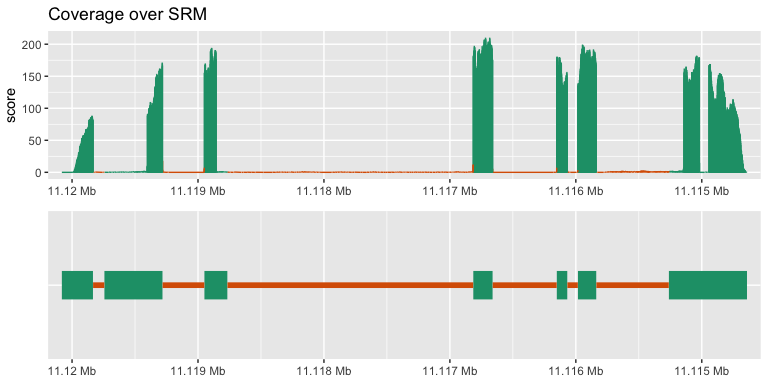
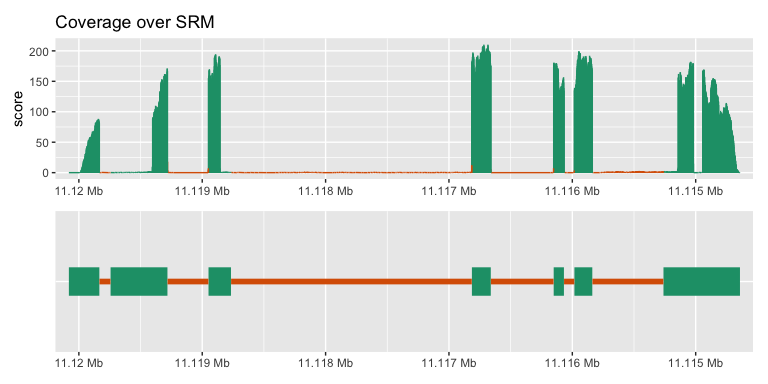
version bump; patchwork is now on CRAN; fix changes caused by regression bug in plyranges.

diff --git a/README.md b/README.md
@@ -46,6 +46,8 @@ gene.
 
 ``` r
 library(superintronic)
+#> Warning: replacing previous import 'IRanges::slice' by 'plyranges::slice' when
+#> loading 'superintronic'
 suppressPackageStartupMessages(library(plyranges))
 
 features <- system.file("extdata", 
@@ -93,32 +95,32 @@ cvg <- compute_coverage_long(design, source = "bam")
 
 cvg 
 #> GRanges object with 98561 ranges and 6 metadata columns:
-#>           seqnames             ranges strand |  sample_id     cell
-#>              <Rle>          <IRanges>  <Rle> |   <factor> <factor>
-#>       [1]        1         1-11053772      * | SRR1039508   N61311
-#>       [2]        1  11053773-11053835      * | SRR1039508   N61311
-#>       [3]        1  11053836-11053839      * | SRR1039508   N61311
-#>       [4]        1  11053840-11053902      * | SRR1039508   N61311
-#>       [5]        1  11053903-11067865      * | SRR1039508   N61311
-#>       ...      ...                ...    ... .        ...      ...
-#>   [98557]        1  11359548-11362328      * | SRR1039521  N061011
-#>   [98558]        1  11362329-11362356      * | SRR1039521  N061011
-#>   [98559]        1  11362357-11362391      * | SRR1039521  N061011
-#>   [98560]        1  11362392-11362419      * | SRR1039521  N061011
-#>   [98561]        1 11362420-249250621      * | SRR1039521  N061011
-#>                dex    albut
-#>           <factor> <factor>
-#>       [1]    untrt    untrt
-#>       [2]    untrt    untrt
-#>       [3]    untrt    untrt
-#>       [4]    untrt    untrt
-#>       [5]    untrt    untrt
-#>       ...      ...      ...
-#>   [98557]      trt    untrt
-#>   [98558]      trt    untrt
-#>   [98559]      trt    untrt
-#>   [98560]      trt    untrt
-#>   [98561]      trt    untrt
+#>           seqnames             ranges strand |  sample_id     cell      dex
+#>              <Rle>          <IRanges>  <Rle> |   <factor> <factor> <factor>
+#>       [1]        1         1-11053772      * | SRR1039508   N61311    untrt
+#>       [2]        1  11053773-11053835      * | SRR1039508   N61311    untrt
+#>       [3]        1  11053836-11053839      * | SRR1039508   N61311    untrt
+#>       [4]        1  11053840-11053902      * | SRR1039508   N61311    untrt
+#>       [5]        1  11053903-11067865      * | SRR1039508   N61311    untrt
+#>       ...      ...                ...    ... .        ...      ...      ...
+#>   [98557]        1  11359548-11362328      * | SRR1039521  N061011      trt
+#>   [98558]        1  11362329-11362356      * | SRR1039521  N061011      trt
+#>   [98559]        1  11362357-11362391      * | SRR1039521  N061011      trt
+#>   [98560]        1  11362392-11362419      * | SRR1039521  N061011      trt
+#>   [98561]        1 11362420-249250621      * | SRR1039521  N061011      trt
+#>              albut
+#>           <factor>
+#>       [1]    untrt
+#>       [2]    untrt
+#>       [3]    untrt
+#>       [4]    untrt
+#>       [5]    untrt
+#>       ...      ...
+#>   [98557]    untrt
+#>   [98558]    untrt
+#>   [98559]    untrt
+#>   [98560]    untrt
+#>   [98561]    untrt
 #>                                                                                                           bam
 #>                                                                                                         <Rle>
 #>       [1] /Library/Frameworks/R.framework/Versions/3.6/Resources/library/airway/extdata/SRR1039508_subset.bam
@@ -262,13 +264,12 @@ each sample or treatment group or cell type
 ``` r
 p <- cvg_over_features %>% 
   mutate(strand = feature_strand) %>% 
-  view_coverage(score = score, colour = feature_type, facets = "cell") + 
+  view_coverage(score = score, 
+                colour = feature_type, 
+                facets = vars(cell)) + 
   scale_color_brewer(palette = "Dark2") +
   guides(colour = FALSE) +
   labs(title = "Coverage over SRM")
-#> Warning: `as_quosure()` requires an explicit environment as of rlang 0.3.0.
-#> Please supply `env`.
-#> This warning is displayed once per session.
 p / gene_track + patchwork::plot_layout(heights = c(3, 1))
 ```
 
